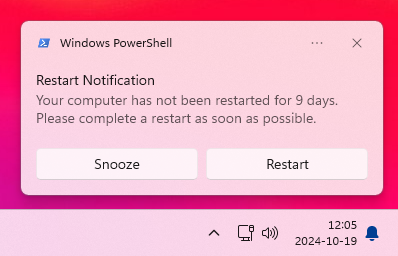
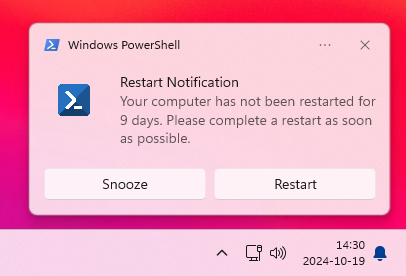
Added an image to the notification

diff --git a/README.md b/README.md
@@ -5,6 +5,7 @@ A selection of PowerShell scripts that allow an administrator to prompt end user
   - ToastShell.cmd
   - ToastShell.ps1
   - ToastShellMain.ps1
+- Add an image file called ToastShell.png which will display within the notification
 - Set up an application that uses script detection to determine if the workstation has restarted in the last 7 days using the below code
 ```
 $KernelEvents = Get-WinEvent -ProviderName 'Microsoft-Windows-Kernel-Boot'
